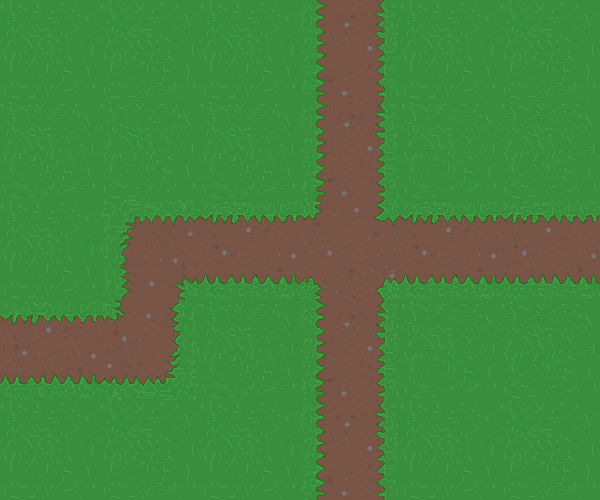
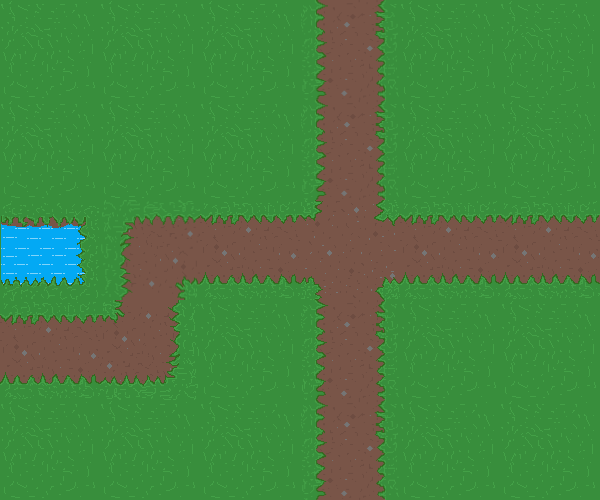
mask, assets['chests], introscreen

Changed region(s): [[0.0, 0.42, 0.15, 0.57]]

diff --git a/treasures_and_burial.py b/treasures_and_burial.py
@@ -12,8 +12,6 @@ BLUE = (0,0,255)
 RED = (255,0,0)
 BLACK = (0,0,0)
 
-MAPA = GREEN #Variável para mudança de mapas conforme o movimento do personagem (teste com cores)
-#Iniciando o PyGame, algumas funções e criando a janela
 pygame.init()
 pygame.mixer.init()
 
@@ -26,7 +24,16 @@ clock = pygame.time.Clock()
 def load_assets():
     assets = {}
     assets['flecha_img'] = pygame.image.load('Pixel_TreasuresandBurial/props/objects/projectiles/arrow-16x16.png').convert_alpha()
-    assets['character_img'] = pygame.image.load('Pixel_TreasuresandBurial/props/characters/front/char0.0-96x96.png').convert_alpha()
+    assets['character_img'] = pygame.image.load('Pixel_TreasuresandBurial/props/characters/front/char0.0-96x96.png').convert()
+    assets['init_screen'] = pygame.image.load('Pixel_TreasuresandBurial/img/introscreen-500x400.png').convert()
+    assets['init_screen'] = pygame.transform.scale(assets['init_screen'], (WIDTH,HEIGHT))
+    over_anim = []
+    for i in range(1,3):
+        filename = 'Pixel_TreasuresandBurial/img/gameover{0}.png'.format(i)
+        img = pygame.image.load(filename).convert()
+        img = pygame.transform.scale(img,(WIDTH,HEIGHT))
+        over_anim.append(img)
+    assets['over_screen'] = over_anim    
     anim_right = []
     anim_left = []
     anim_front = []
@@ -70,6 +77,36 @@ def load_assets():
         img = pygame.transform.scale(img,(32,32))
         elementals.append(img)
     assets['elementals'] = elementals
+    assets['mapas'] = pygame.image.load('Pixel_TreasuresandBurial/maps/Mapa3.1.png').convert()
+    assets['mask'] = pygame.image.load('Pixel_TreasuresandBurial/mask/Mask3.1.png').convert()
+    chests = dict()
+    closed_chests = []
+    for i in range(1,3):
+        img = pygame.image.load('Pixel_TreasuresandBurial/props/objects/chests/chest{0}closed-32x32.png'.format(i)).convert_alpha()
+        img = pygame.transform.scale(img,(40,40))
+        closed_chests.append(img)
+    open_chests = []
+    for i in range(1,3):
+        img = pygame.image.load('Pixel_TreasuresandBurial/props/objects/chests/chest{0}openEMPTY-32x32.png'.format(i)).convert_alpha()
+        img = pygame.transform.scale(img,(40,40))
+        closed_chests.append(img)
+    chests['closed'] = closed_chests
+    chests['open'] = open_chests
+    content = dict()
+    chest1 = []
+    chest2 = []
+    for i in range(1,3):
+        img = pygame.image.load('Pixel_TreasuresandBurial/props/objects/chests/chest1openFULL{0}-32x32.png'.format(i)).convert_alpha()
+        img = pygame.transform.scale(img,(40,40))
+        chest1.append(img)
+    for i in range(1,3):
+        img = pygame.image.load('Pixel_TreasuresandBurial/props/objects/chests/chest2openFULL{0}-32x32.png'.format(i)).convert_alpha()
+        img = pygame.transform.scale(img,(40,40))
+        chest2.append(img)
+    content['chest1'] = chest1
+    content['chest2'] = chest2
+    chests['content'] = content
+    assets['chests'] = chests
     return assets
 
 #Classes
@@ -83,8 +120,8 @@ class Char(pygame.sprite.Sprite):
         self.rect = self.image.get_rect()
         self.rect.centerx = WIDTH/2
         self.rect.centery = HEIGHT/2
-        self.x_speed = 0
-        self.y_speed = 0
+        self.delta = {"esquerda":0,"direita":0,"acima":0,"abaixo":0}
+        self.velo = 5
         self.groups = groups
         self.assets = assets
 
@@ -93,8 +130,8 @@ class Char(pygame.sprite.Sprite):
 
     def update(self):
 
-        self.rect.x += self.x_speed
-        self.rect.y += self.y_speed
+        self.rect.x += (self.delta["direita"]-self.delta["esquerda"])*self.velo
+        self.rect.y += (self.delta["abaixo"]-self.delta["acima"])*self.velo
 
 
         if self.rect.right > WIDTH:
@@ -129,7 +166,7 @@ class Flecha(pygame.sprite.Sprite):
         distx = mouse[0] - self.rect.centerx
         disty = mouse[1] - self.rect.centery
         angle = atan2(disty,distx)
-        self.angle = degrees(angle)
+        self.angle = degrees(-angle)
         self.speedx = cos(angle)*self.speed
         self.speedy = sin(angle)*self.speed 
         self.image = pygame.transform.rotate(self.image,(self.angle-45))
@@ -145,7 +182,7 @@ class Flecha(pygame.sprite.Sprite):
 
 class Enemy(pygame.sprite.Sprite):
     def __init__(self,groups,assets,player):
-        n = random.randint(0,4)
+        n = random.randint(0,3)
         self.assets = assets
         self.image = self.assets['elementals'][n]
         self.groups = groups
@@ -177,19 +214,30 @@ class Enemy(pygame.sprite.Sprite):
             self.rect.bottom = HEIGHT
             self.speed = 0
 
+class MapMask(pygame.sprite.Sprite):
+    def __init__(self,assets): 
+        pygame.sprite.Sprite.__init__(self)
+        self.image = pygame.image.load('Pixel_TreasuresandBurial/mask/Mask3.1.png').convert()
+        self.mask = pygame.mask.from_surface(self.image)
+        self.rect = self.image.get_rect()
+    
 def janela(window):        
     #grupos das sprites
     all_sprites = pygame.sprite.Group()
     all_flechas = pygame.sprite.Group()
     all_enemies = pygame.sprite.Group()
+    water_mask_group = pygame.sprite.Group()
     groups = {}
     groups['all_sprites'] = all_sprites
     groups['all_flechas'] = all_flechas
     groups['all_enemies'] = all_enemies
     assets = load_assets()
     player = Char(groups, assets)
-    enemy = Enemy(groups,assets,player)
+    enemy = Enemy(groups, assets, player)
+    water_mask = MapMask(assets['mask'])
     all_sprites.add(player)
+    all_enemies.add(enemy)
+    water_mask_group.add(water_mask)
 
     #Loop principal
     gamerun = True
@@ -201,24 +249,24 @@ def janela(window):
                 gamerun = False
             if event.type == pygame.KEYDOWN:
                 if event.key == pygame.K_a:
-                    player.x_speed -=5
+                    player.delta["esquerda"] =1
                 if event.key == pygame.K_d:
-                    player.x_speed +=5
+                    player.delta["direita"] =1
                 if event.key == pygame.K_w:
-                    player.y_speed -=5
+                    player.delta["acima"] =1
                 if event.key == pygame.K_s:
-                    player.y_speed +=5
+                    player.delta["abaixo"] =1
                 if event.key == pygame.K_SPACE:
                     player.shoot()
             if event.type == pygame.KEYUP:
                 if event.key == pygame.K_a:
-                    player.x_speed +=5
+                    player.delta["esquerda"] =0
                 if event.key == pygame.K_d:
-                    player.x_speed -=5
+                    player.delta["direita"] =0
                 if event.key == pygame.K_w:
-                    player.y_speed +=5
+                    player.delta["acima"] =0
                 if event.key == pygame.K_s:
-                    player.y_speed -=5
+                    player.delta["abaixo"] =0
                 
             if event.type == pygame.MOUSEMOTION:
                 mouse = list(pygame.mouse.get_pos())
@@ -226,16 +274,25 @@ def janela(window):
 
         if player.rect.right >= (WIDTH)-100:
             if (HEIGHT/2)-50<player.rect.bottom<(HEIGHT/2+50):
-                MAPA = BLACK
+                MAPA = assets['mapas']
                 player.kill()
                 player = Char(groups,assets)
+                player.rect.centerx = 0
                 all_sprites.add(player)
-        else:
-            MAPA = GREEN
                 
+        else:
+            MAPA = assets['mapas']
+            x = 0   
+
+         in_water = pygame.sprite.spritecollide(player,water_mask_group,False,pygame.sprite.collide_mask)
+
+        if in_water:
+            player.x_speed = 0
+            player.y_speed = 0
+
         all_sprites.update()
     
-        window.fill(MAPA) #Depois, podemos usar o comando pygame.display.flip()
+        window.blit(MAPA,(0,0)) #Depois, podemos usar o comando pygame.display.flip()
         all_sprites.draw(window)
         all_flechas.draw(window)
         all_enemies.draw(window)
